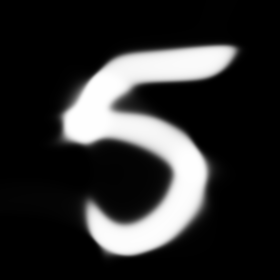
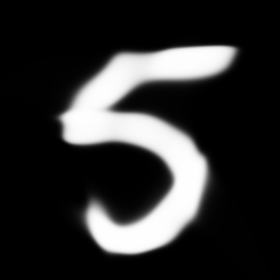
More testing

diff --git a/img_nn.c b/img_nn.c
@@ -10,7 +10,7 @@
 #define MAX_EPOCHS                          1000 * 1000
 #define LEARNING_RATE                       1
 #define USE_STOCHASTIC_GRADIENT_DESCENT     true
-#define MINIMUM_COST                        0.0005
+#define MINIMUM_COST                        0.001
 
 char *args_shift(int *argc, char ***argv)
 {
@@ -94,8 +94,6 @@ Image process(Image image)
         }
     }
 
-    matrix_shuffle_rows(t);
-
     Matrix ti = {
         .rows = t.rows,
         .cols = 2,
@@ -112,7 +110,7 @@ Image process(Image image)
     // MATRIX_PRINT(ti);
     // MATRIX_PRINT(to);
 
-    size_t arch[] = { 2, image.width / 1, image.width / 1, output_cols };
+    size_t arch[] = { 2, image.width / 2, image.width / 2, output_cols };
     NN nn = nn_alloc(arch, ARRAY_LEN(arch));
     NN gradient = nn_alloc(arch, ARRAY_LEN(arch));
     nn_randomize(nn, -1, 1);
@@ -121,7 +119,7 @@ Image process(Image image)
     size_t max_epochs = MAX_EPOCHS;
     bool use_stochastic_gradient_descent = USE_STOCHASTIC_GRADIENT_DESCENT;
 
-    size_t batch_size = image.width;
+    size_t batch_size = image.width * 2;
     size_t batch_count = (t.rows + batch_size - 1) / batch_size;
 
     float c = nn_cost(nn, ti, to);
@@ -147,6 +145,10 @@ Image process(Image image)
             };
 
             nn_backprop(nn, gradient, batch_ti, batch_to);
+            // if (batch_current == batch_count - 1)
+            // {
+            //     matrix_shuffle_rows(t);
+            // }
         }
         else
         {
@@ -207,10 +209,12 @@ int main(int argc, char **argv)
 	if (i.bit_depth != 8)
 	{
 		fprintf(stderr, "Only 8 bit images are supported\n");
+    	free_image(i);
 		abort();
 	}
 
     Image o = process(i);
+    
     printf("Saving %s\n", output_file_path);
     write_png_file(output_file_path, o);
     free_image(o);

diff --git a/README.md b/README.md
@@ -4,16 +4,19 @@
 
 Simple network that can XOR 2 bits.
 
+---
+
 ## adder
 
 Simple network that can add two 4 bit numbers.
+
+---
 
 ## img_nn
 
 Network that can _learn_ an image and generated an upscaled version.
 
 ### Examples
-
 
 <img src="inputs/0.png" width="140"> -> <img src="outputs/0.png" width="140">
 
@@ -35,7 +38,7 @@ Network that can _learn_ an image and generated an upscaled version.
 
 <img src="inputs/9.png" width="140"> -> <img src="outputs/9.png" width="140">
 
-<img src="inputs/wink.png" width="140"> -> <img src="outputs/wink.png" width="140"> 
+<img src="inputs/wink.png" width="140"> -> <img src="outputs/wink.png" width="140">
 
 <img src="inputs/hi.png" width="140"> -> <img src="outputs/hi.png" width="140">
 
@@ -55,4 +58,14 @@ Network that can _learn_ an image and generated an upscaled version.
 
 <img src="inputs/circles.png" width="140"> -> <img src="outputs/circles.png" width="140">
 
+<img src="inputs/gradient.png" width="140"> -> <img src="outputs/gradient.png" width="140">
+
+<img src="inputs/imgnn.png" width="140"> -> <img src="outputs/imgnn.png" width="140">
+
+<img src="inputs/boy.png" width="140"> -> <img src="outputs/boy.png" width="140">
+
+<img src="inputs/mc.png" width="140"> -> <img src="outputs/mc.png" width="140">
+
 (input images shown here were resized for clarity)
+
+Code adapted from Tsoding on Twitch.
